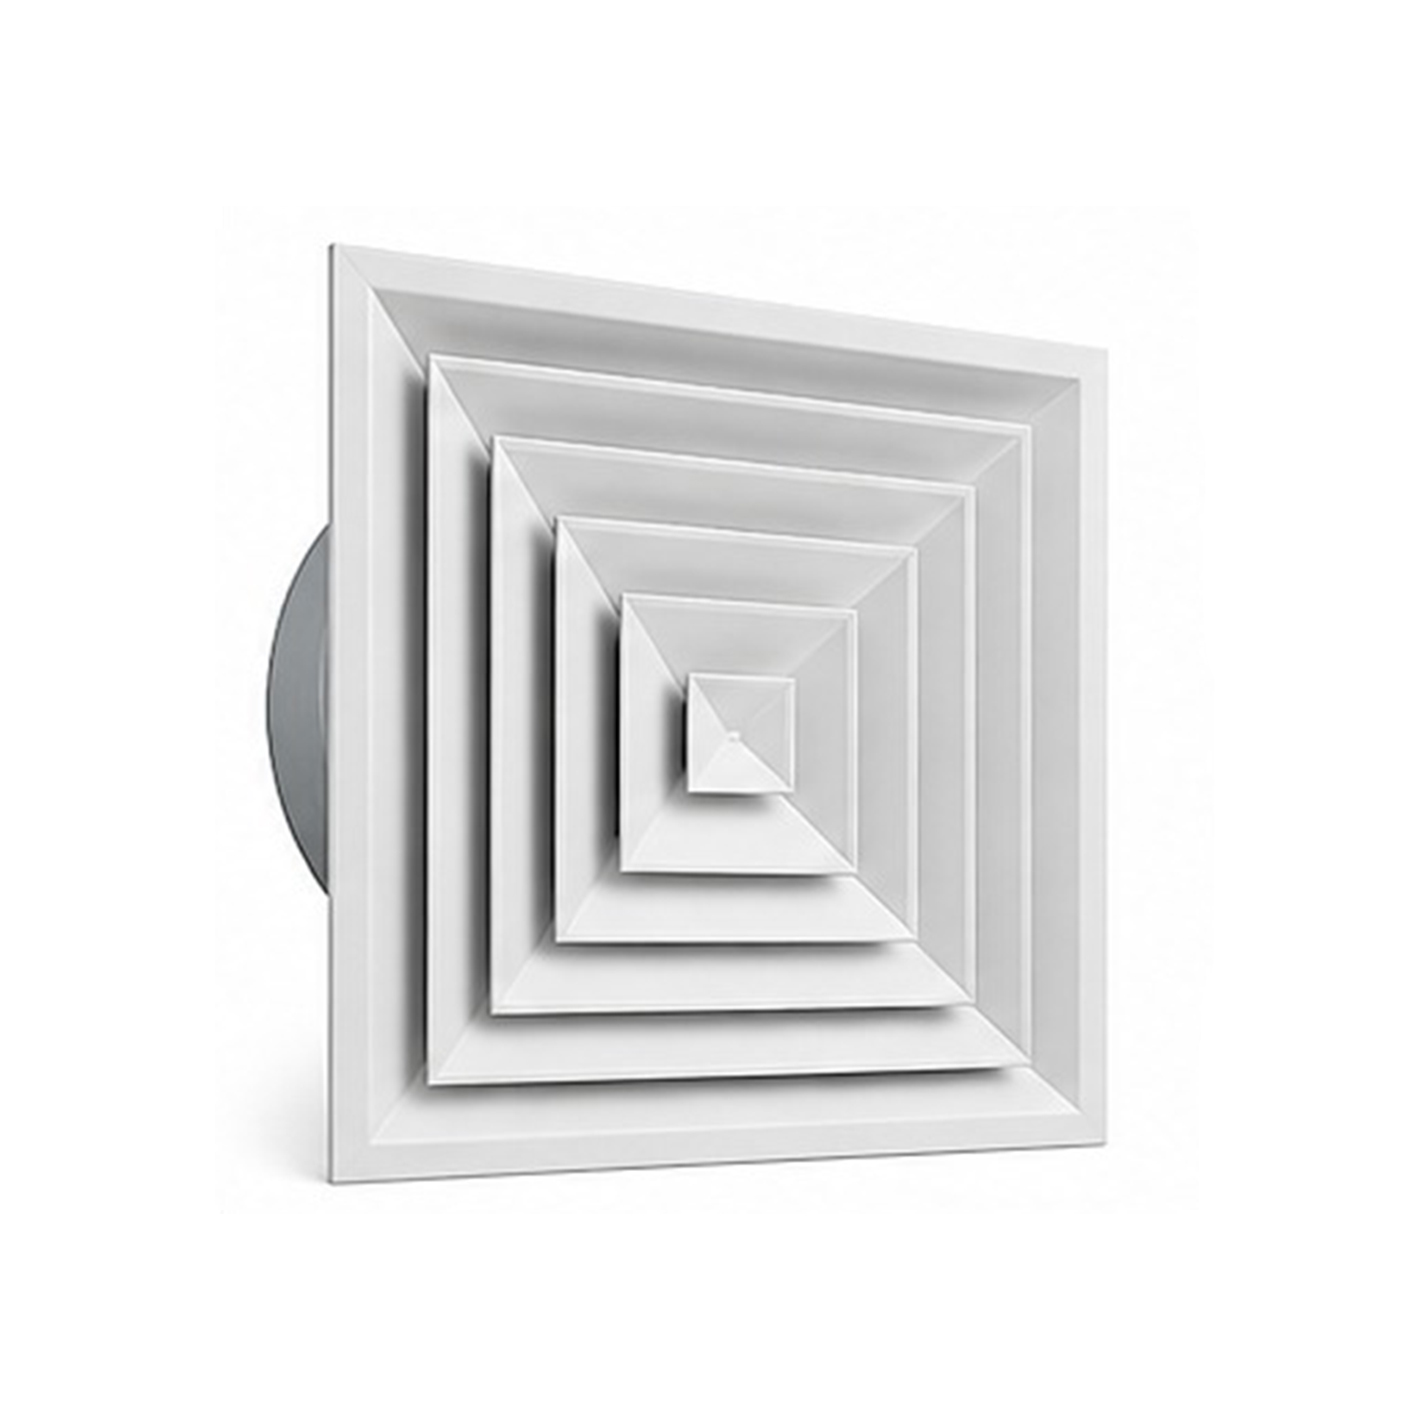
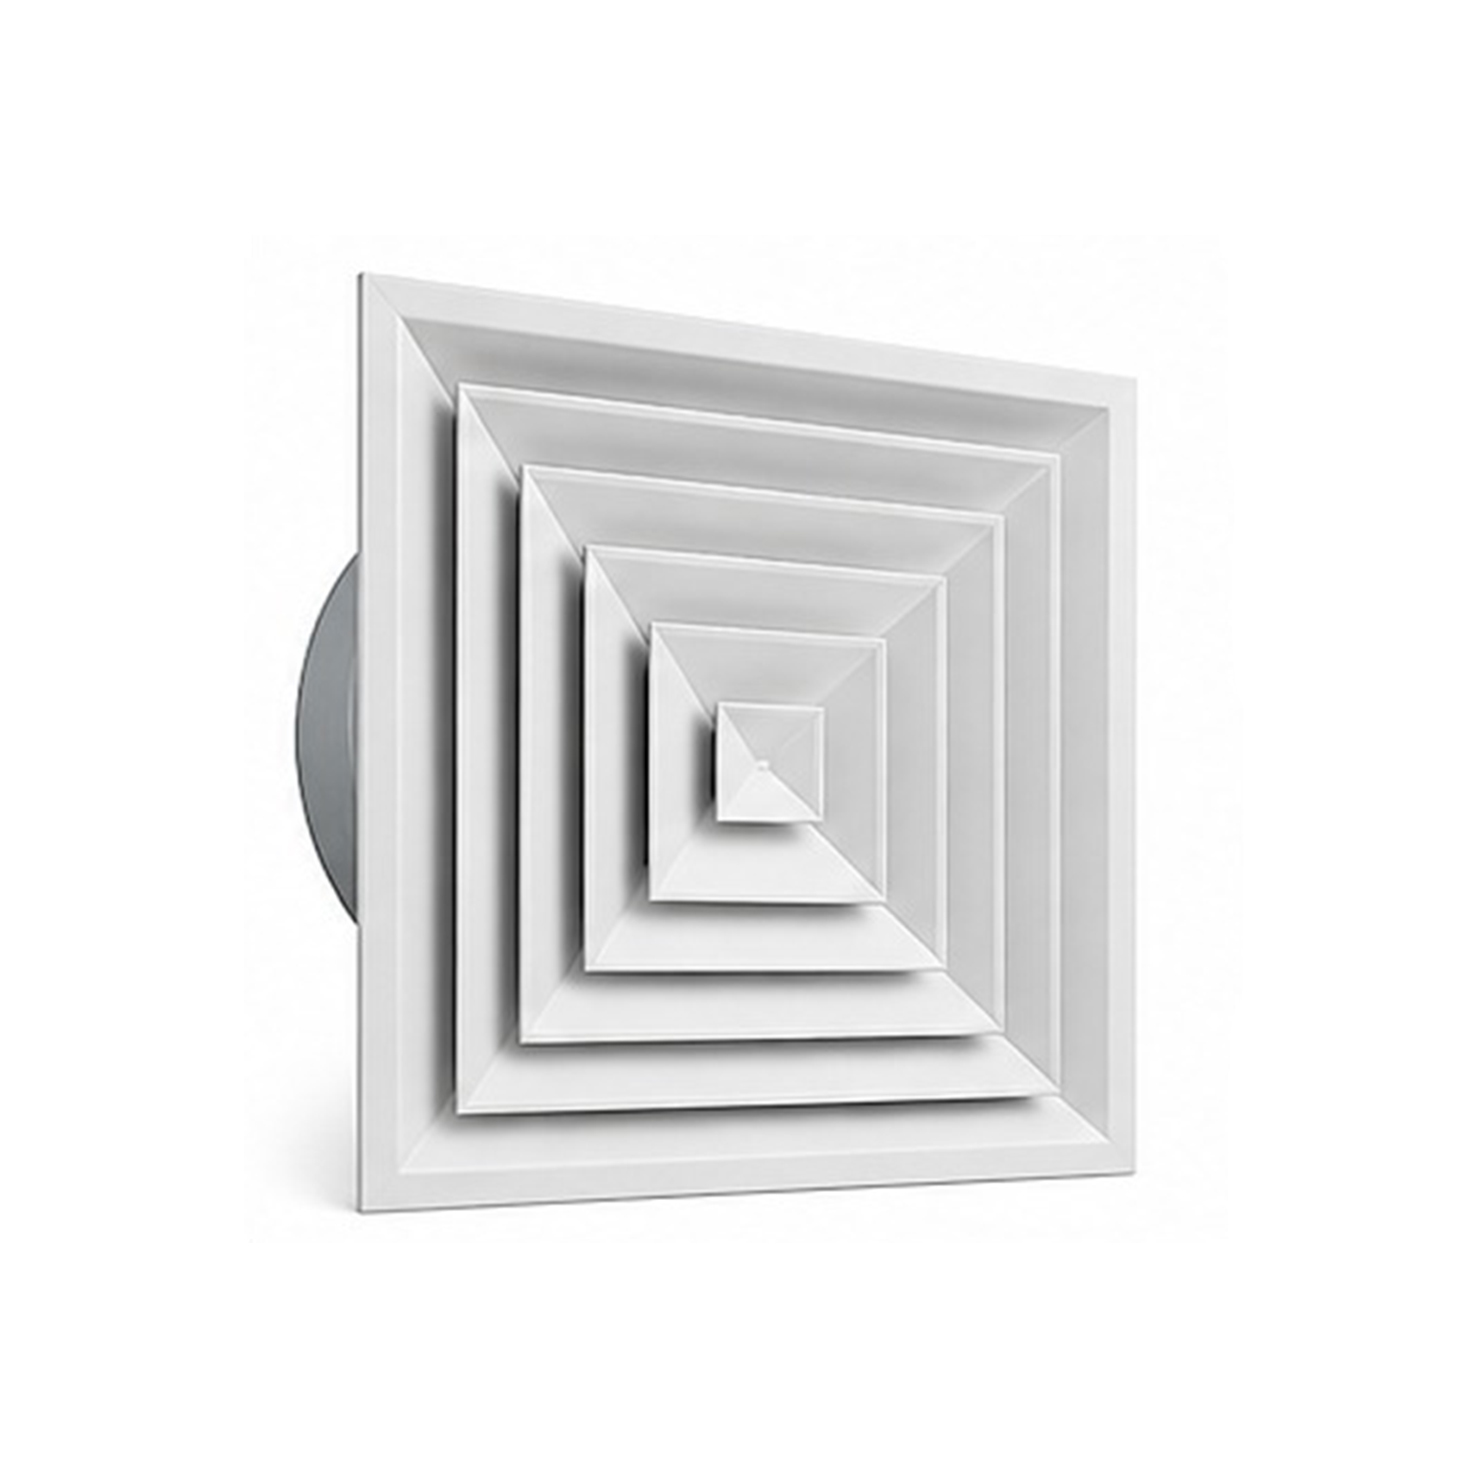
CD updated

Changed region(s): [[0.1863, 0.1553, 0.8073, 0.8384], [0.5279, 0.5279, 0.5589, 0.5589]]

diff --git a/components/ProductsSection.jsx b/components/ProductsSection.jsx
@@ -45,7 +45,7 @@ export default function ProductsSection() {
               className={`product-card group rounded-lg overflow-hidden border border-border reveal delay-${Math.min(i + 1, 5)}`}
             >
               {/* Image */}
-              <div className="relative h-45 md:h-48 overflow-hidden bg-gray-100">
+              <div className="relative h-40 md:h-48 overflow-hidden bg-gray-100">
                 <Image
                   src={cat.img}
                   alt={cat.title}
